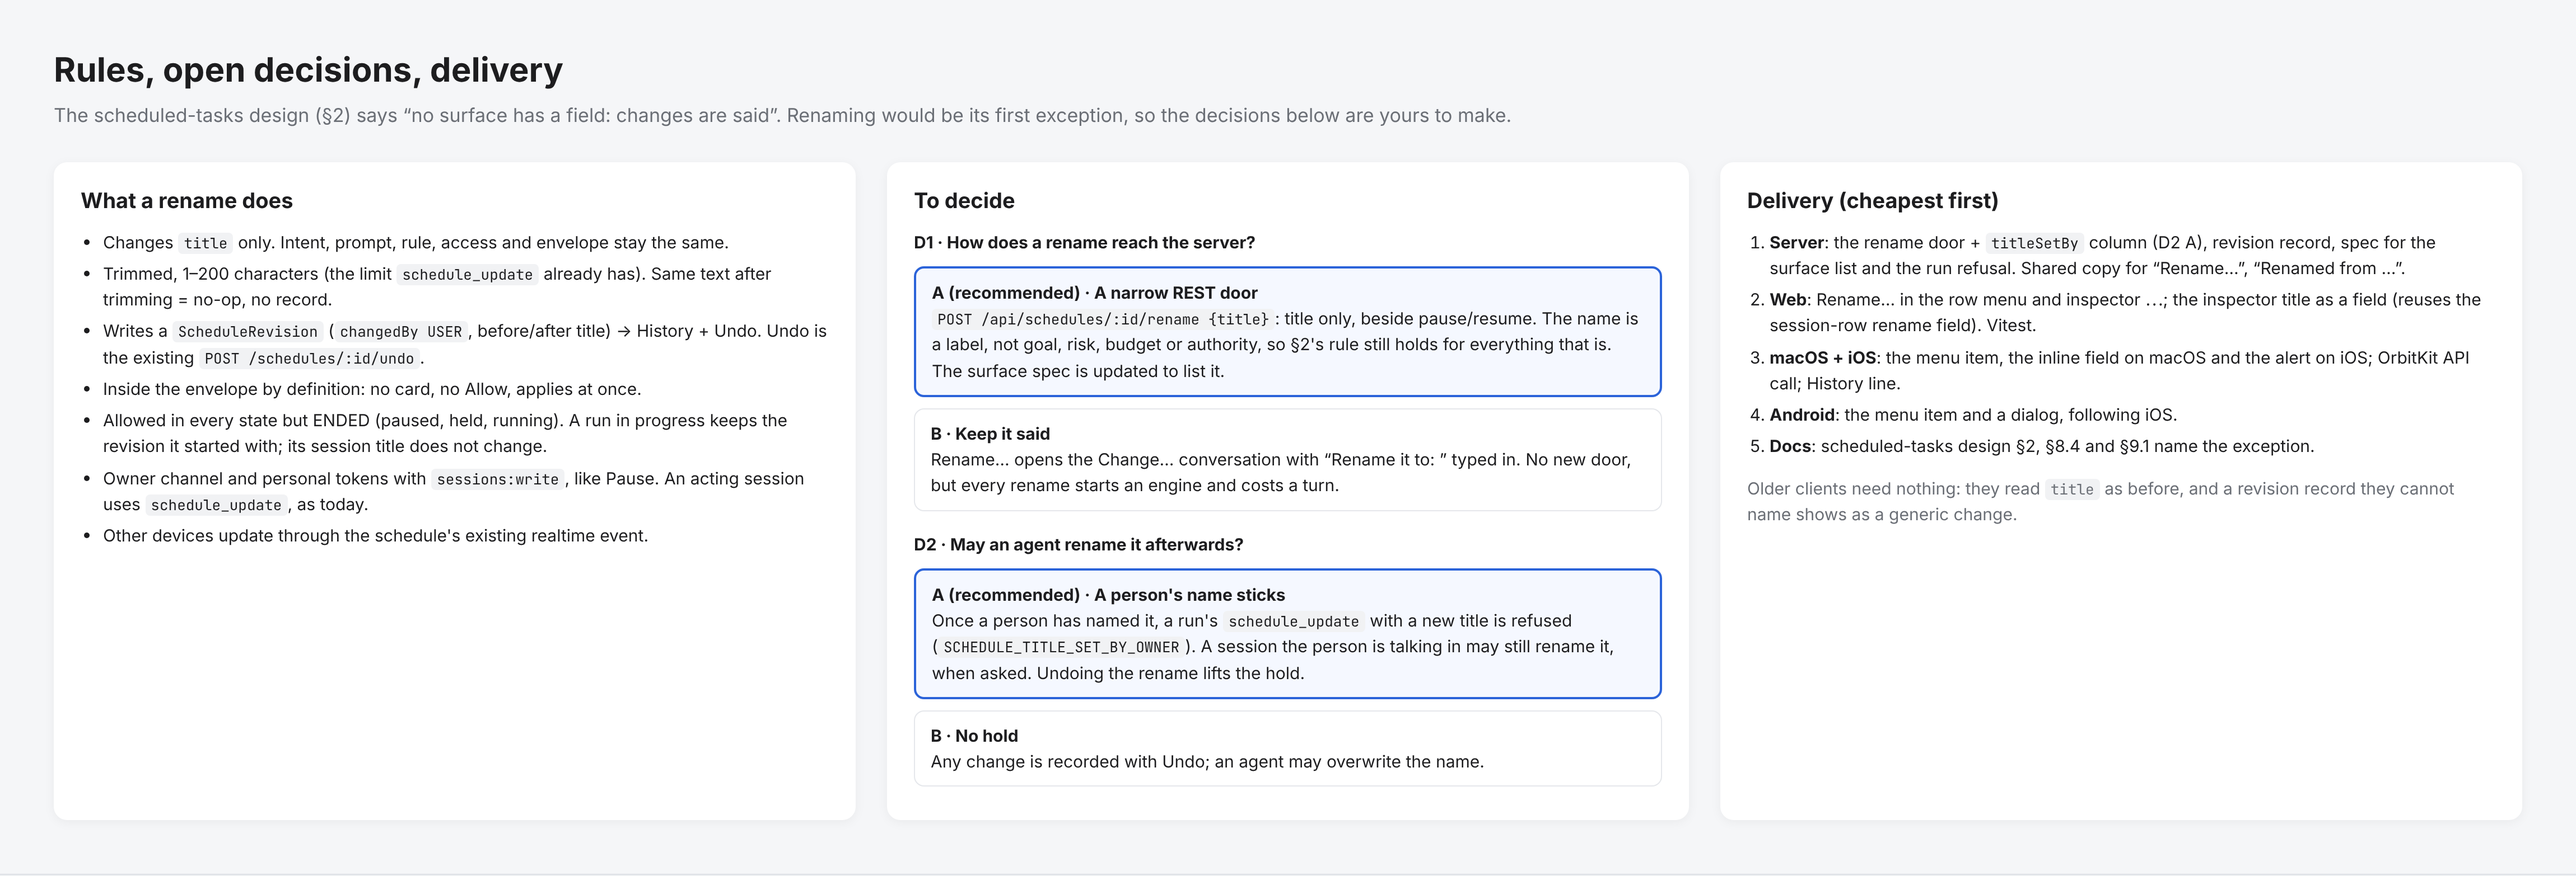
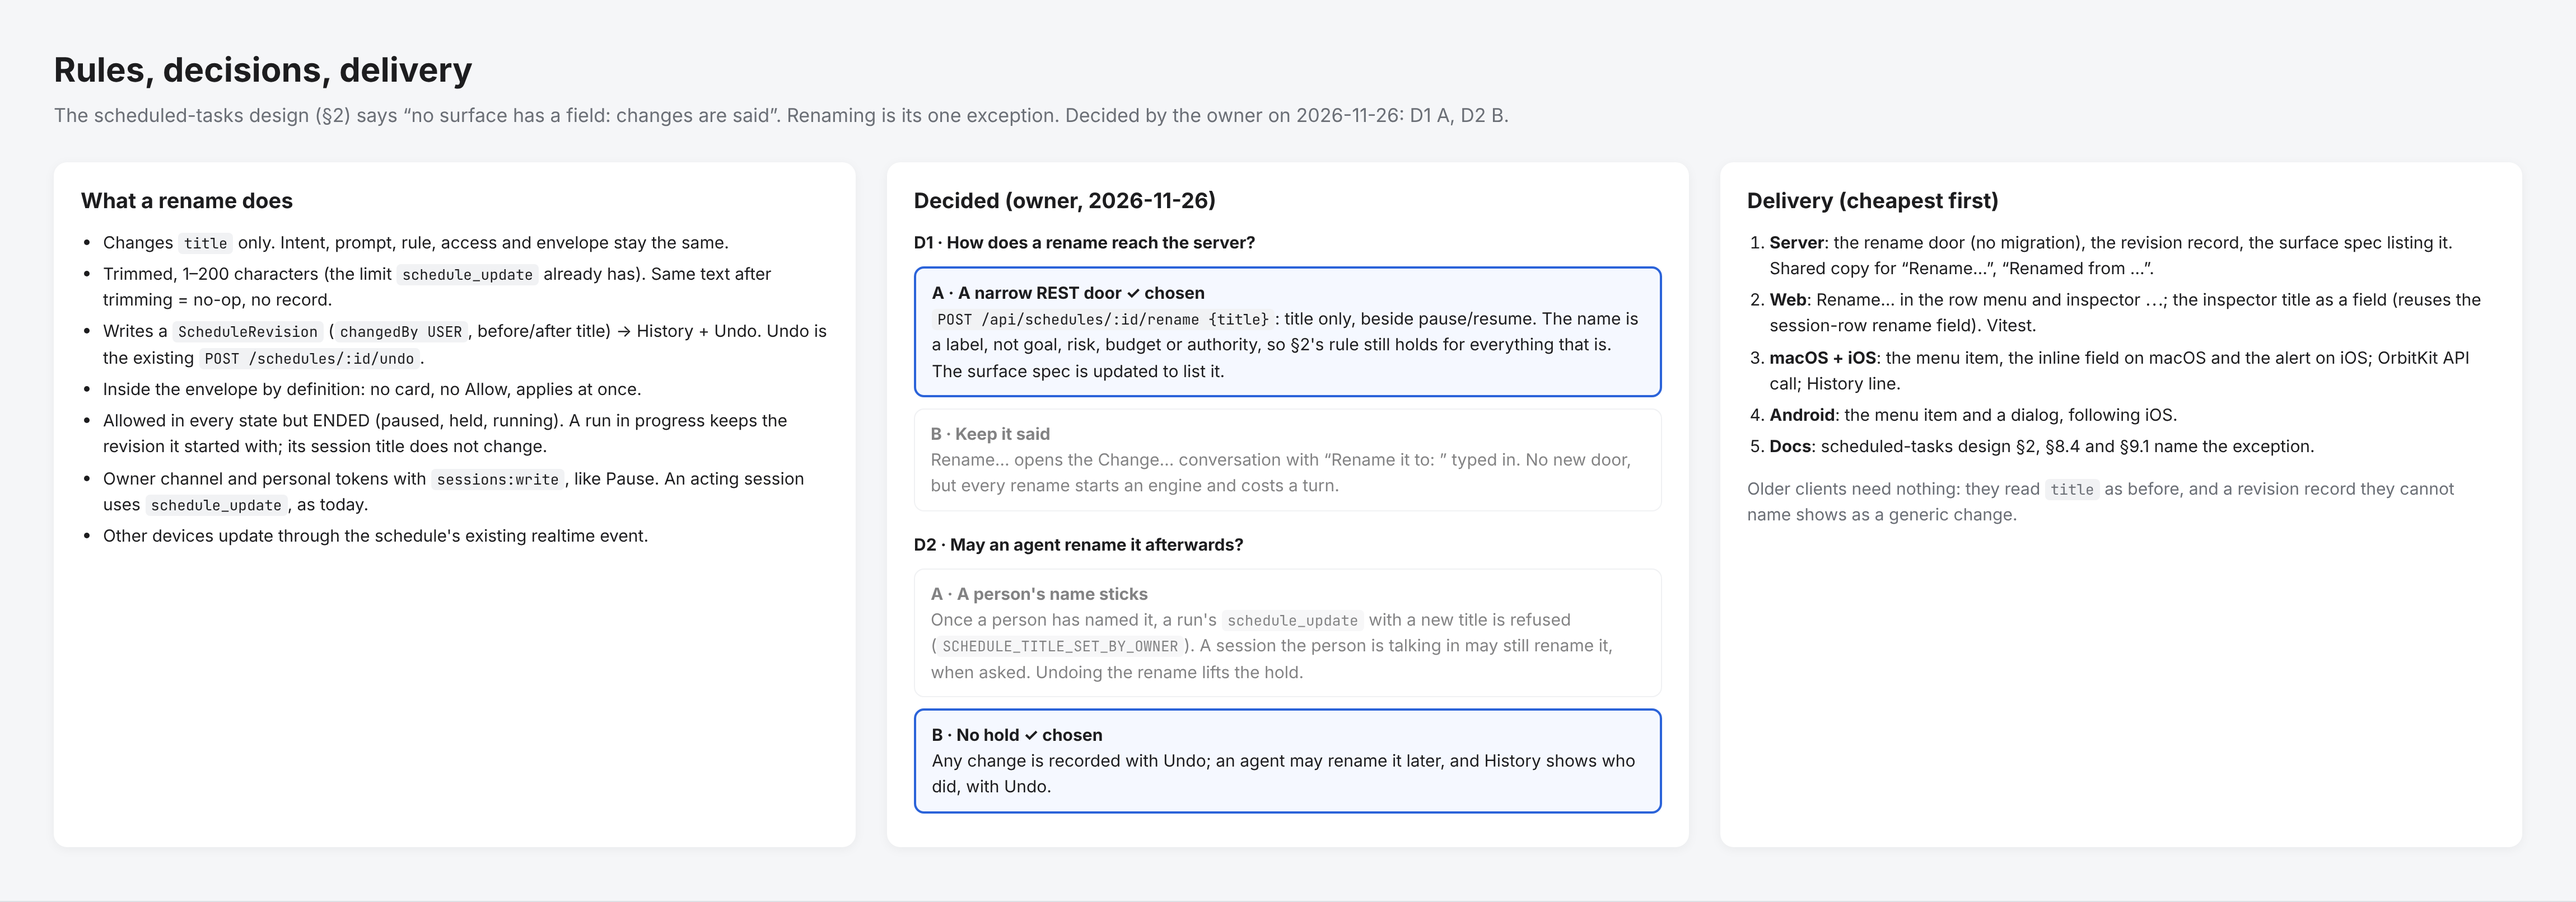
docs(schedules): a person may rename a schedule directly (owner D1 A, D2 B)
Records the owner's 2026-11-26 decisions: a title-only REST door, and no hold on
later agent renames. The board's decisions panel shows the choices.

diff --git a/docs/mocks/schedule-rename/01-board.html b/docs/mocks/schedule-rename/01-board.html
@@ -259,8 +259,8 @@
 
 <!-- ================= Part 3: rules, decisions, delivery ================= -->
 <section class="b-part" id="part-3">
-  <h1>Rules, open decisions, delivery</h1>
-  <p class="b-sub">The scheduled-tasks design (§2) says “no surface has a field: changes are said”. Renaming would be its first exception, so the decisions below are yours to make.</p>
+  <h1>Rules, decisions, delivery</h1>
+  <p class="b-sub">The scheduled-tasks design (§2) says “no surface has a field: changes are said”. Renaming is its one exception. Decided by the owner on 2026-11-26: D1 A, D2 B.</p>
   <div class="b-cols">
     <div class="b-card">
       <h3>What a rename does</h3>
@@ -275,18 +275,18 @@
       </ul>
     </div>
     <div class="b-card">
-      <h3>To decide</h3>
+      <h3>Decided (owner, 2026-11-26)</h3>
       <div class="b-q">D1 · How does a rename reach the server?</div>
-      <div class="b-opt rec"><b>A (recommended) · A narrow REST door</b><code>POST /api/schedules/:id/rename {title}</code>: title only, beside pause/resume. The name is a label, not goal, risk, budget or authority, so §2's rule still holds for everything that is. The surface spec is updated to list it.</div>
-      <div class="b-opt"><b>B · Keep it said</b>Rename… opens the Change… conversation with “Rename it to: ” typed in. No new door, but every rename starts an engine and costs a turn.</div>
+      <div class="b-opt rec"><b>A · A narrow REST door ✓ chosen</b><code>POST /api/schedules/:id/rename {title}</code>: title only, beside pause/resume. The name is a label, not goal, risk, budget or authority, so §2's rule still holds for everything that is. The surface spec is updated to list it.</div>
+      <div class="b-opt" style="opacity:.55"><b>B · Keep it said</b>Rename… opens the Change… conversation with “Rename it to: ” typed in. No new door, but every rename starts an engine and costs a turn.</div>
       <div class="b-q">D2 · May an agent rename it afterwards?</div>
-      <div class="b-opt rec"><b>A (recommended) · A person's name sticks</b>Once a person has named it, a run's <code>schedule_update</code> with a new title is refused (<code>SCHEDULE_TITLE_SET_BY_OWNER</code>). A session the person is talking in may still rename it, when asked. Undoing the rename lifts the hold.</div>
-      <div class="b-opt"><b>B · No hold</b>Any change is recorded with Undo; an agent may overwrite the name.</div>
+      <div class="b-opt" style="opacity:.55"><b>A · A person's name sticks</b>Once a person has named it, a run's <code>schedule_update</code> with a new title is refused (<code>SCHEDULE_TITLE_SET_BY_OWNER</code>). A session the person is talking in may still rename it, when asked. Undoing the rename lifts the hold.</div>
+      <div class="b-opt rec"><b>B · No hold ✓ chosen</b>Any change is recorded with Undo; an agent may rename it later, and History shows who did, with Undo.</div>
     </div>
     <div class="b-card">
       <h3>Delivery (cheapest first)</h3>
       <ol>
-        <li><b>Server</b>: the rename door + <code>titleSetBy</code> column (D2 A), revision record, spec for the surface list and the run refusal. Shared copy for “Rename…”, “Renamed from …”.</li>
+        <li><b>Server</b>: the rename door (no migration), the revision record, the surface spec listing it. Shared copy for “Rename…”, “Renamed from …”.</li>
         <li><b>Web</b>: Rename… in the row menu and inspector ⋯; the inspector title as a field (reuses the session-row rename field). Vitest.</li>
         <li><b>macOS + iOS</b>: the menu item, the inline field on macOS and the alert on iOS; OrbitKit API call; History line.</li>
         <li><b>Android</b>: the menu item and a dialog, following iOS.</li>

diff --git a/docs/scheduled-tasks-design.md b/docs/scheduled-tasks-design.md
@@ -33,6 +33,10 @@ the `EVERY` rule (§3, §5.1) inside the same runs-per-week envelope (§4), a ru
 one-interval catch-up (§5.2, §7.2), `maxRuns` beside `endAt` with a suggested 7-day end for sub-daily rules (§8.5),
 what clients already shipped need (§9.3), and missed slots collapsed in the run list (§9.2).
 
+**Rename** (owner, 2026-11-26; board `docs/mocks/schedule-rename/`): a person may rename a schedule directly, the
+one field a surface edits (§2, §8.4). D1 = A: a narrow REST door that changes the title alone. D2 = B: no hold, so an
+agent may rename it again later, recorded with **Undo** like any other change.
+
 ## 1. Why, and which timer
 
 A user wants recurring work that outlives any conversation:
@@ -82,7 +86,8 @@ Every part of a schedule belongs to one side:
 Three consequences follow, and the rest of the document is their detail:
 
 1. **Said, not configured.** No surface has a field. Changes are said in any session ("make it 9:00", "only on
-   weekdays", "stop opening PRs"). The page is for reading and stopping.
+   weekdays", "stop opening PRs"). The page is for reading and stopping. The one exception is the name (owner
+   2026-11-26, §8.4 *Rename*): a label, not the goal, the risk, the budget or the authority.
 2. **One rule for cards.** A change that stays inside the envelope applies at once, is recorded and can be undone. A
    change that grows it waits for one press (§4). Nothing else asks.
 3. **A person hears from a schedule only when it found something new or needs them** (§7.3). There is no notify
@@ -779,8 +784,25 @@ Each is a `ScheduleRevision` with `changedBy = RUN` and **Undo**. A run asking t
 | Run now | Writes a MANUAL run under the overlap rule, recording whether the owner pressed it (`by_owner`). Allowed when PAUSED; refused when ENDED. The owner's own press (the owner-interactive channel) always starts and counts toward no budget. A session's or a personal access token's press counts toward a budget of its own: the same window, the same delivered-or-live rule and the same `envelope.runsPerWeek` as §4, over those presses alone, and over it the press is refused (`SCHEDULE_OVER_BUDGET`). A token is what an agent with a shell on the runner holds, so exempting it would let the budget be passed without the owner. No press takes an automatic slot's place (§4). A run's own session cannot press Run now at all (`SCHEDULE_RUN_SESSION_SCOPE`), so the loop the weekly count guards against is a rule moved to "a few minutes from now", which §4 bounds. Presses still count toward a planned end by count (`maxRuns`, §8.5). |
 | Stop this run | Interrupts the run's session, run → CANCELLED (`CANCELLED_BY_OWNER`). The schedule is unchanged. |
 | Delete | ENDED (`DELETED`), a QUEUED run is cancelled, a RUNNING one continues. Runs and findings are kept. |
+| Rename | Sets `title` alone (§8.4 *Rename*). Refused when ENDED. |
 
-Agents have the same five as tools, so "pause the Codex check until Monday" works from a chat.
+Agents have the same five as tools, so "pause the Codex check until Monday" works from a chat. Rename has no tool of
+its own: an agent renames with `schedule_update({title})`, as before.
+
+**Rename** (owner 2026-11-26, board `docs/mocks/schedule-rename/01-board.png`):
+
+- `title` only: intent, prompt, rule, access and envelope are untouched. The text is trimmed and must be 1–200
+  characters (`checkText`, the same as `schedule_update`). Unchanged text after trimming writes nothing.
+- Always inside the envelope: it applies at once, writes a `ScheduleRevision` (`changedBy = USER`, the title's before
+  and after), shows in the history as "Renamed from “…”" and has **Undo** (`POST /api/schedules/:id/undo`).
+- Allowed while ACTIVE, PAUSED or HELD, and while a run is under way; refused when ENDED (`SCHEDULE_ENDED`). A run in
+  progress keeps its revision and its session keeps its title; later runs, notifications and **Waiting on you** use
+  the new name.
+- No hold (D2 = B): a session or a run may set the title again later through `schedule_update`; that change is
+  recorded and undoable like every other.
+- Clients: **Rename…** in the row's context, long-press and ⋯ menus and in the inspector's ⋯. On web and macOS the
+  inspector title becomes a field in place (Return or leaving it saves, Esc cancels); on iOS the system alert with
+  one text field, the current name selected, Save off while empty or unchanged; Android follows iOS with a dialog.
 
 ### 8.5 Planned end
 
@@ -850,7 +872,9 @@ cards. A schedule with no planned end shows nothing.
   sessions only). The descriptions of `schedule_create` and `schedule_wakeup` carry the table of §1.
 - REST: `GET /api/schedules`, `GET /api/schedules/:id`, `GET /api/schedules/:id/runs`,
   `POST /api/schedules/:id/{pause,resume,run,undo}`, `DELETE /api/schedules/:id`, `POST /api/schedule-runs/:id/stop`.
-  There is no REST door that creates or changes a schedule: those go through a session and its card.
+  `POST /api/schedules/:id/rename {title}` (§8.4 *Rename*, owner 2026-11-26) is the one REST door that changes a
+  schedule, and it changes the title alone; it answers as Undo does (the schedule and the change's record). There is
+  no other REST door that creates or changes a schedule: those go through a session and its card.
 - The cards (S4, 2026-11-15): a card is its `ScheduleChangeRequest` row. `schedule_create` returns at once with the
   PENDING create card (and says in words that nothing is scheduled yet); `schedule_update` returns APPLIED with the
   change's record (its Undo is `POST /api/schedules/:id/undo`) or PENDING with the envelope card. The owner's press is
@@ -898,7 +922,8 @@ As decided in revision 3, modelled on Reminders' *Scheduled* list:
   client by a shared function.
 - **Inspector** (beside the list on web and macOS, a sheet on iOS): the read-back sentence, next run, last result,
   *What was asked* (the intent), *Notes for the next run*, this month's use, history (runs and revisions with
-  **Undo**, each naming who made it: you, a session, or a run), the controls of §8.4 and **Change…**.
+  **Undo**, each naming who made it: you, a session, or a run), the controls of §8.4 (with **Rename…**) and
+  **Change…**.
 - **Quick-add line** at the end of the list: "Describe a scheduled task…" with the workspace it will use.
 - **Sessions:** the create card, the change line with Undo, the widen card; on a run's session a header naming the
   schedule and the report card; on a change conversation a strip naming the schedule, which opens it.
